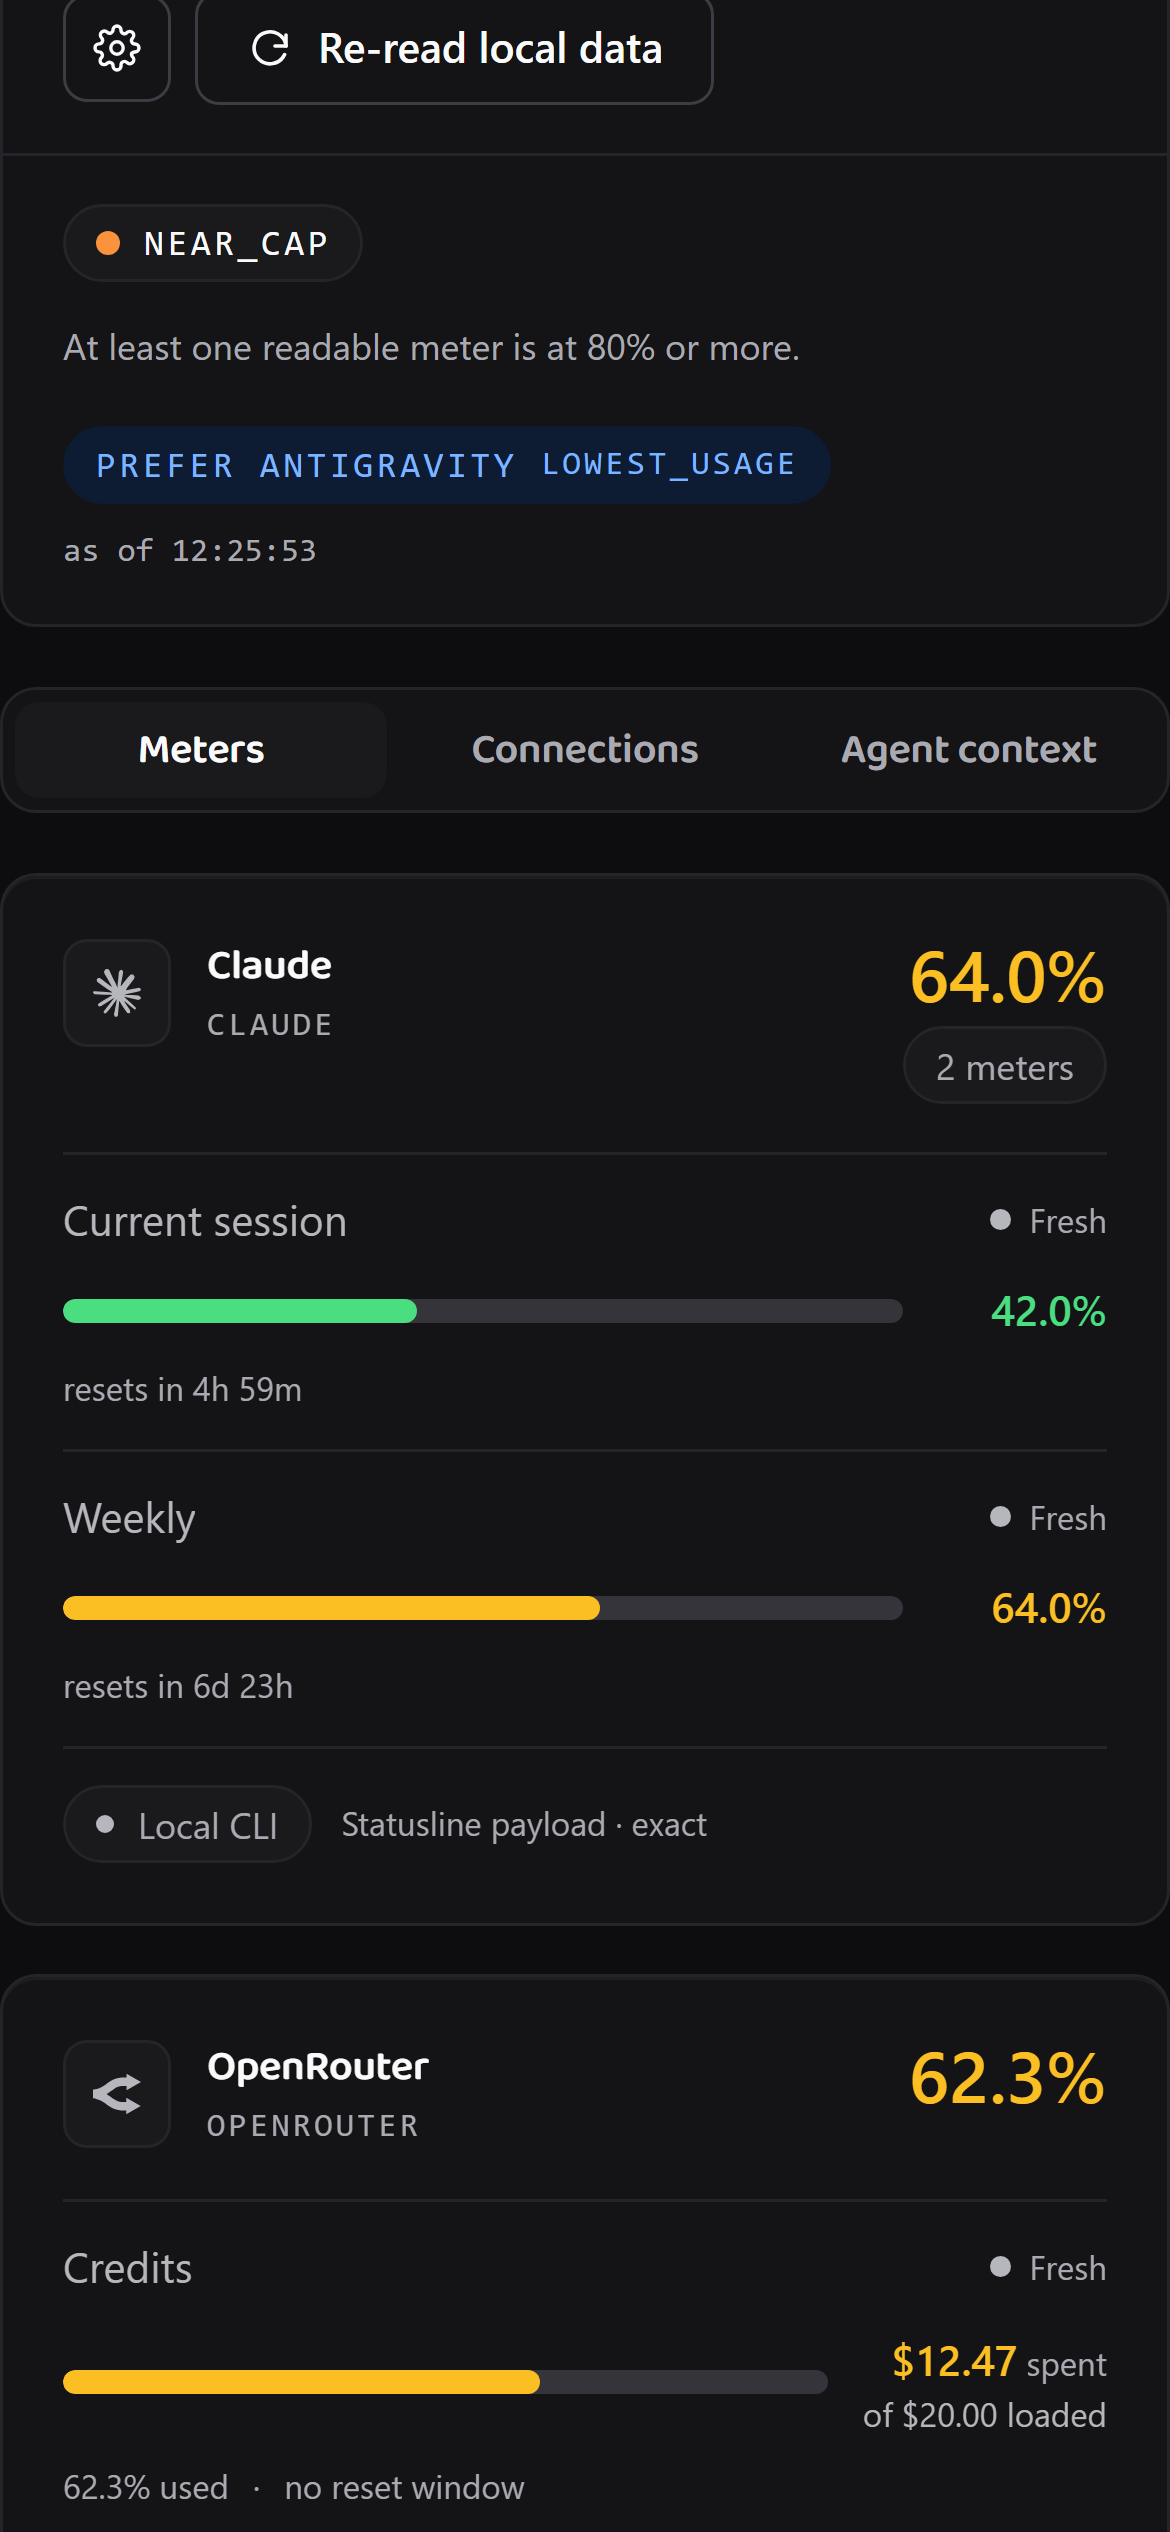
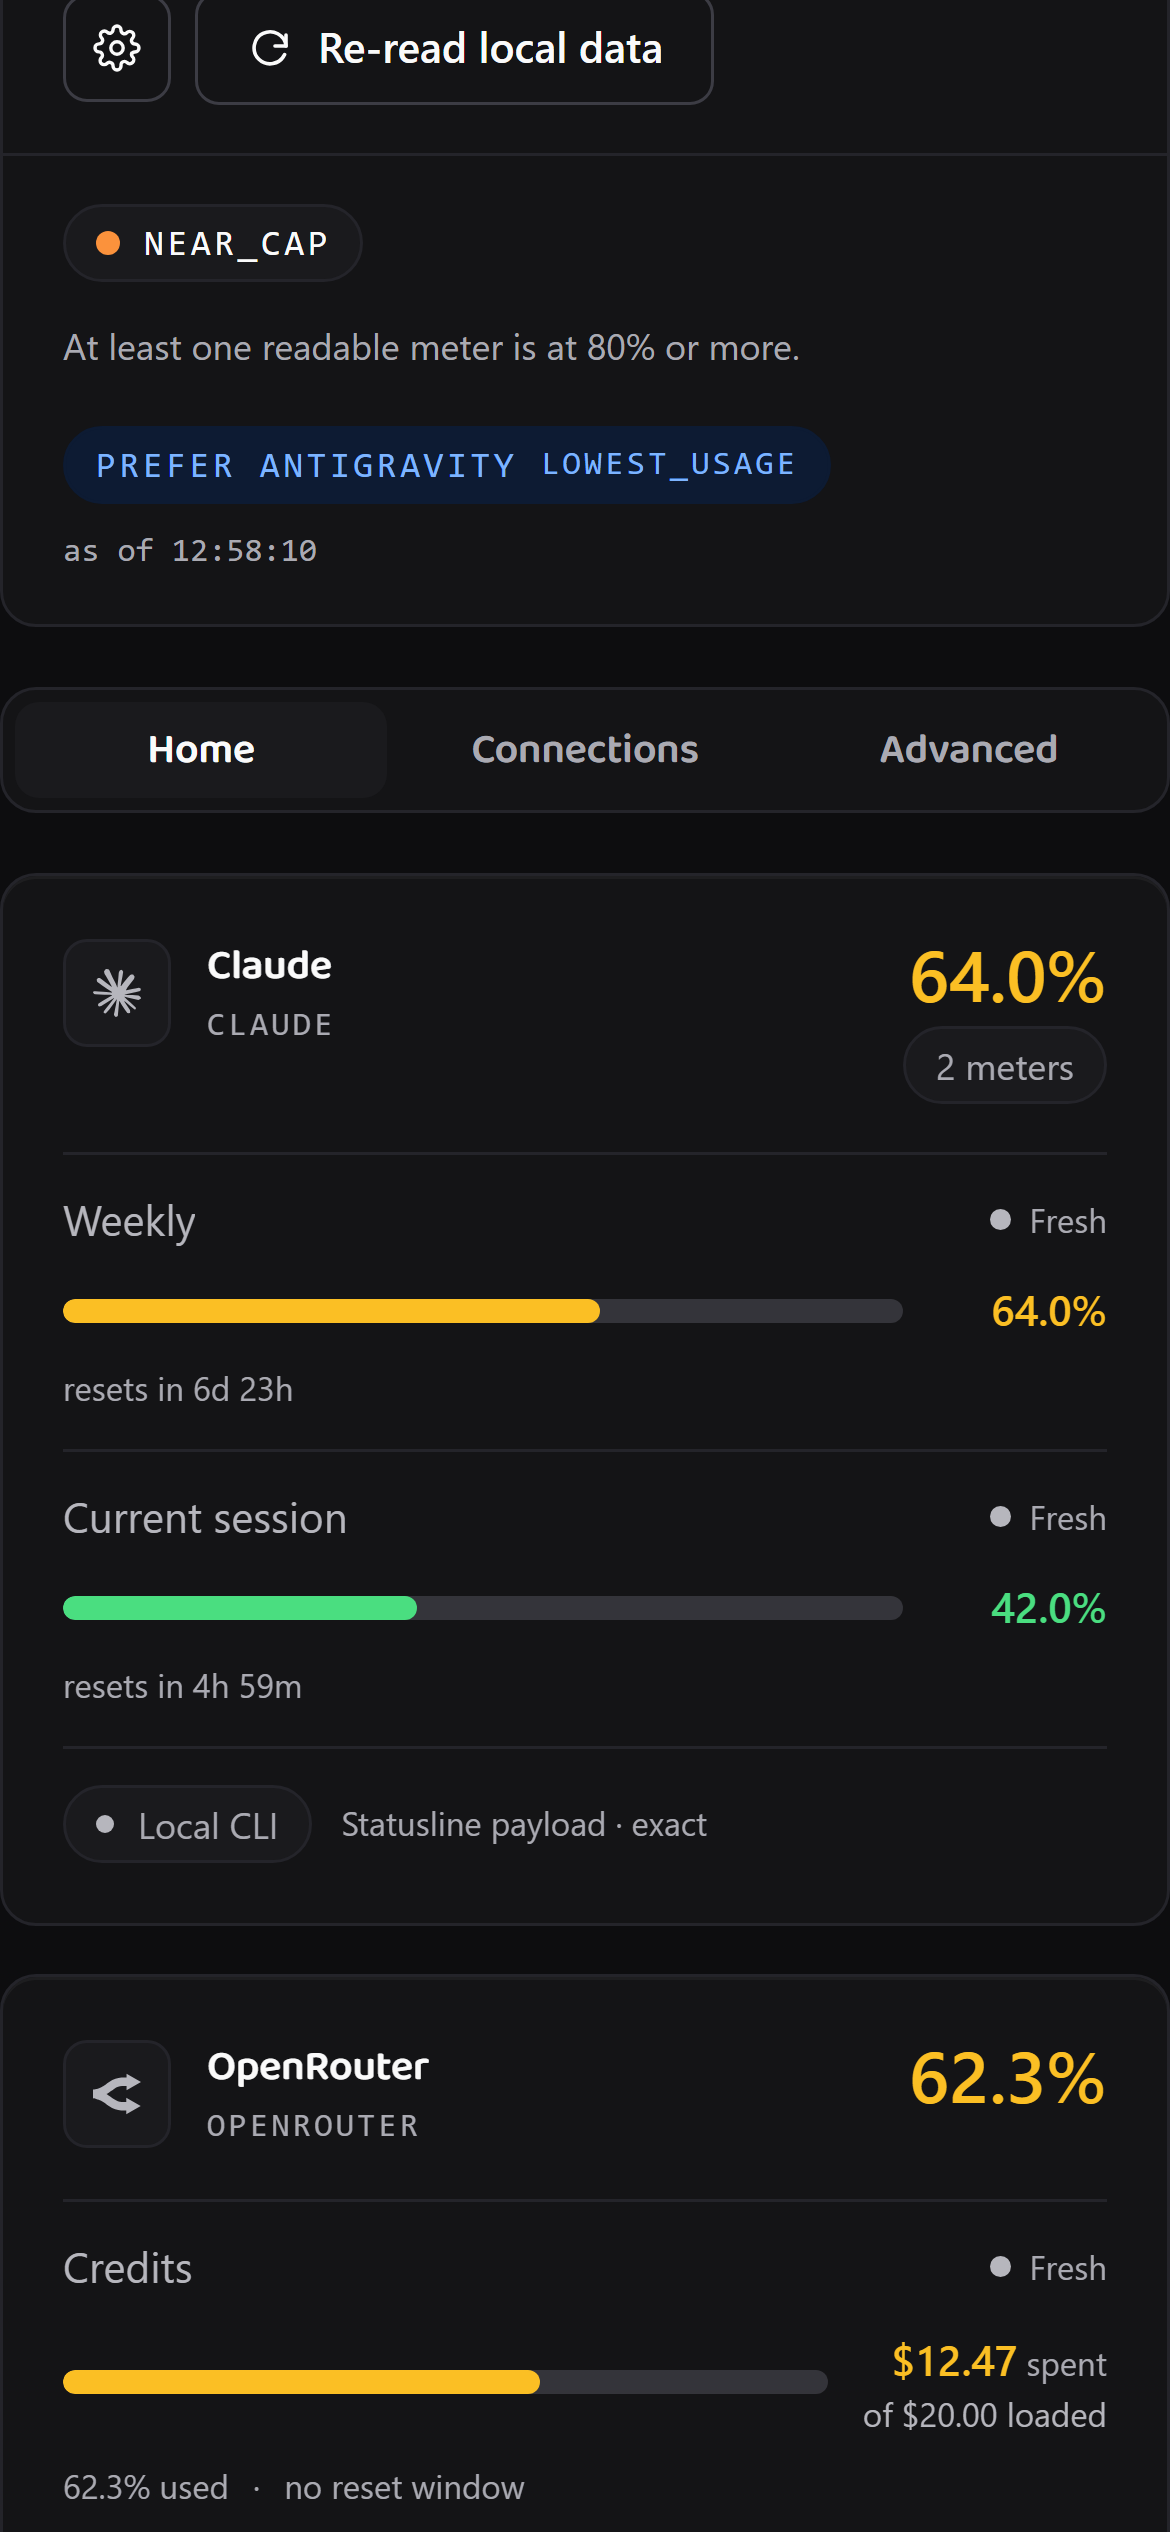
The phone captures photograph the shipped app, and the server bundle stops lying about why it crashed
The capture script drives the flipped tabs (home, advanced, connections)
instead of ids that died with the pivot, and the six phone captures now
photograph the true build, verified by eye: Home with pressure ordered
meters, the Advanced hook block, and the Connections surface with its
import only honesty chips. The stale server that poisoned one capture
run cost two retries; the chain now proves its own port and status
before photographing. The README demo block is regenerated from the
0.4.0 binary with the source column and pressure sorting. Server
minification is off with the reason documented in the config: the /app
prerender crashes only under the minifier, dev and tests and the
unminified build all pass, and the terser root cause is a recorded
follow-up rather than a silent ship blocker.

Claude-Session: https://claude.ai/code/session_01SGgukDoipa3eSddZM5XPf1

diff --git a/apps/web/next.config.ts b/apps/web/next.config.ts
@@ -42,6 +42,12 @@ const nextConfig: NextConfig = {
    */
   experimental: {
     globalNotFound: true,
+    /* The /app prerender crashes only when the server bundle is minified, a
+       terser interaction inside the mirrored engine that dev, tests, and the
+       unminified build all pass. Server minification stays off until the root
+       cause is found (follow-up recorded 2026-08-11); the cost is bundle size
+       on the server only, never a user facing byte. */
+    serverMinification: false,
   },
 
   /**

diff --git a/apps/web/next-env.d.ts b/apps/web/next-env.d.ts
@@ -1,6 +1,6 @@
 /// <reference types="next" />
 /// <reference types="next/image-types/global" />
-/// <reference path="./.next-fable/types/routes.d.ts" />
+/// <reference path="./.next/types/routes.d.ts" />
 
 // NOTE: This file should not be edited
 // see https://nextjs.org/docs/app/api-reference/config/typescript for more information.

diff --git a/README.md b/README.md
@@ -31,18 +31,18 @@ OpenLimiter only ever advises. It never routes requests automatically, bypasses 
 
 ## Demo data
 
-Every block below is real CLI output, not mockup text. Captured 9 August 2026, straight from the built binary, against the project's own synthetic fixtures. No capture here contains a real credential or a real account.
+Every block below is real CLI output, not mockup text. Captured 11 August 2026, straight from the built binary, against the project's own synthetic fixtures. No capture here contains a real credential or a real account. Rows sort most constrained first, and the SOURCE column names how each reading reached this machine; scripts should parse `openlimiter export`, the table is for people.
 
 ```text
 $ NO_COLOR=1 node packages/cli/dist/bin.js demo
-PROVIDER METER BAR USAGE AMOUNT STATE RESET IN
-CLAUDE FIVE_HOUR ####...... 42.00PERCENT NONE fresh 2026-08-10T05:59:48.766Z 5h0m
-CLAUDE SEVEN_DAY ######.... 64.00PERCENT NONE fresh 2026-08-17T00:59:48.766Z 7d0h
-OPENROUTER CREDITS ######.... 62.35PERCENT $12.47/$20.00 fresh NONE NONE
-CODEX PRIMARY ########.. 84.00PERCENT NONE fresh 2026-08-10T05:59:48.766Z 5h0m
-ANTIGRAVITY PRIMARY ##........ 28.00PERCENT NONE fresh 2026-08-11T00:59:48.766Z 1d0h
-OPENCODE PRIMARY #########. 92.00PERCENT NONE fresh 2026-08-11T00:59:48.766Z 1d0h
-MANUAL MONTHLY ###....... 35.00PERCENT NONE fresh 2026-09-10T00:59:48.766Z 31d0h
+PROVIDER    METER     BAR        USAGE        AMOUNT        STATE RESET                    IN    SOURCE
+OPENCODE    PRIMARY   #########. 92.00PERCENT NONE          fresh 2026-08-12T11:48:23.828Z 20h0m [import only]
+CODEX       PRIMARY   ########.. 84.00PERCENT NONE          fresh 2026-08-11T20:48:23.000Z 4h59m [import only]
+CLAUDE      SEVEN_DAY ######.... 64.00PERCENT NONE          fresh 2026-08-18T15:48:23.000Z 6d23h [import only]
+CLAUDE      FIVE_HOUR ####...... 42.00PERCENT NONE          fresh 2026-08-11T20:48:23.000Z 4h59m [import only]
+OPENROUTER  CREDITS   ######.... 62.35PERCENT $12.47/$20.00 fresh NONE                     NONE  [import only]
+MANUAL      MONTHLY   ###....... 35.00PERCENT NONE          fresh 2026-09-11T15:48:23.828Z 31d0h [import only]
+ANTIGRAVITY PRIMARY   ##........ 28.00PERCENT NONE          fresh 2026-08-11T20:48:23.828Z 5h0m  [import only]
 
 $ node packages/cli/dist/bin.js statusline
 OpenLimiter NEAR_CAP PREFER ANTIGRAVITY  CLAUDE ###.. 64.0%  CODEX ####. 84.0%  ANTIGRAVITY #.... 28.0%  OPENCODE ####. 92.0%
